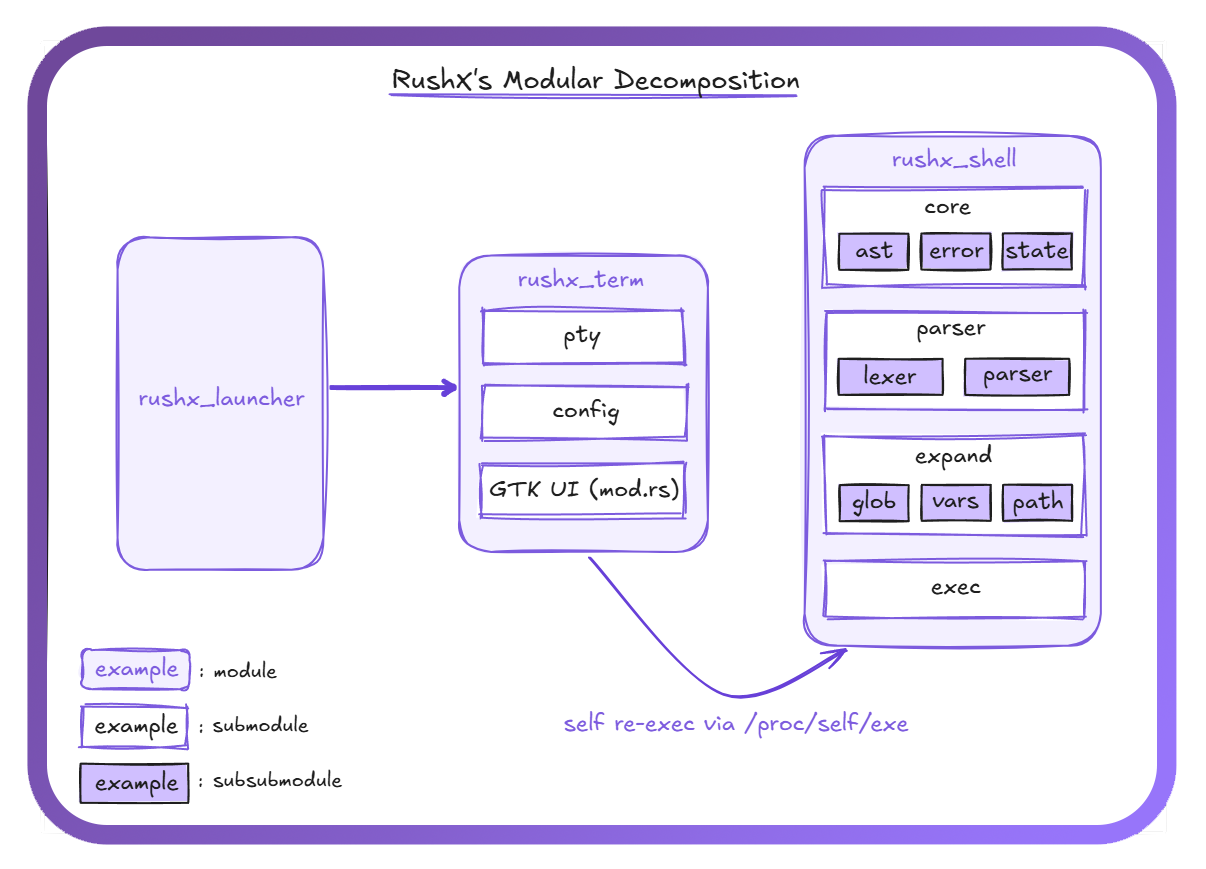
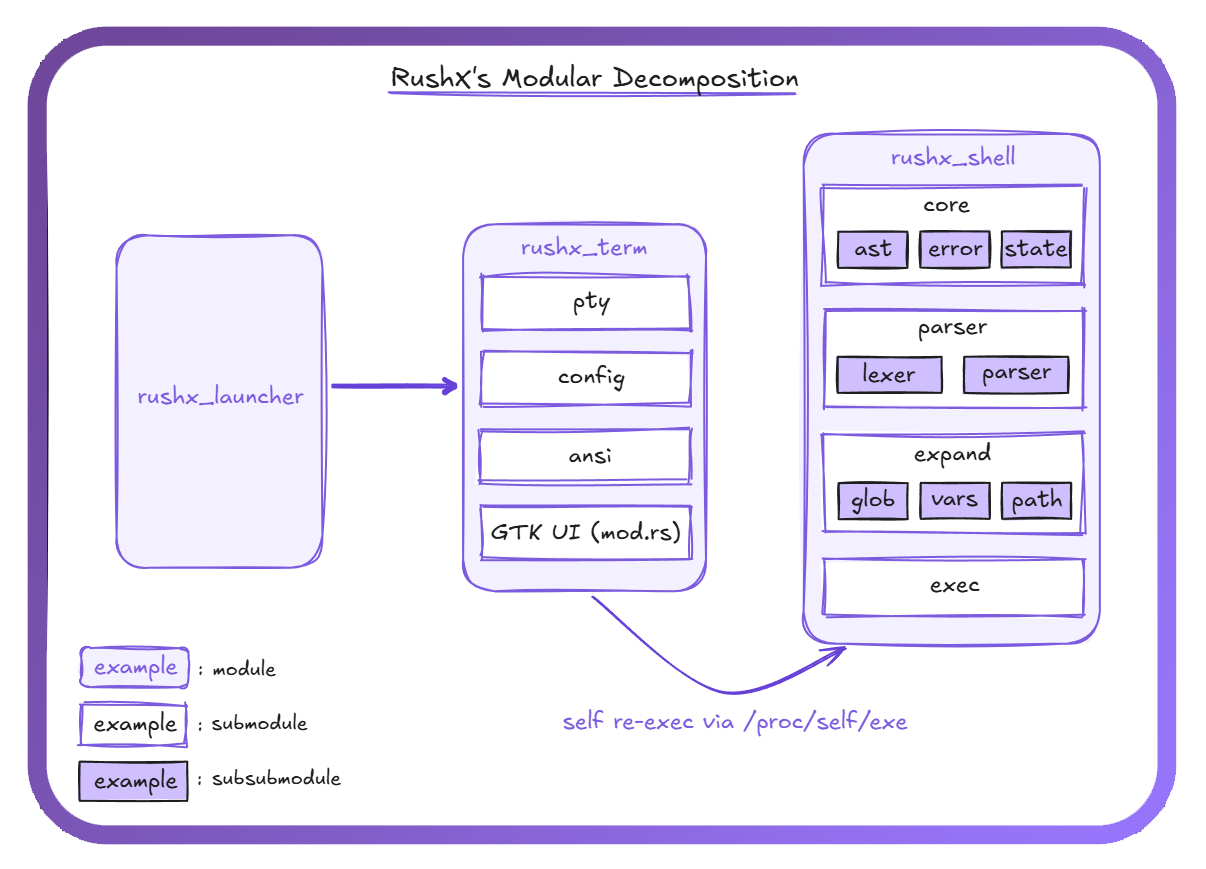
- fix(doc/assets): Updated RushX Modules + Associated sections

diff --git a/README.md b/README.md
@@ -154,7 +154,6 @@ _**Figure 1**: RushX Terminal & Shell Command Execution Lifecycle - Architecture
 
 </div>
 
-
 <br/>
 
 Well, the considered full command execution lifecycle of RushX could be mainly sectioned into five phases:
@@ -328,47 +327,23 @@ The five subsections below walk through each emulator-side component in detail.
 
 #### 3.3.1 Reader Thread
 
-A dedicated background thread sits in a blocking read loop on the PTY master fd, reading into a 4096-byte stack buffer. Each successful read is copied into a byte vector and sent through a standard mpsc channel to the GTK main thread.
-
-The thread terminates when the read returns EOF (shell closed stdout), EIO (slave side closed), or the channel receiver has been dropped (GTK shut down). In all cases the thread exits silently, disconnecting the channel and signaling the poll timer to close the window.
+A dedicated background thread blocks on the PTY master fd, reading into a 4096-byte buffer. Each chunk is sent through an mpsc channel to the GTK main thread. The thread exits silently on EOF, EIO, or a dropped channel receiver.
 
 #### 3.3.2 Poll Timer
 
-A GLib timeout fires every **16 ms** (roughly 60 fps) on the GTK main loop. Each tick drains all pending messages from the reader thread's channel without blocking.
-
-For each byte chunk received, the timer feeds it through the output processing state machine and appends the results to the shared text buffer. If anything arrived, it resets the cursor to visible (interrupting any ongoing blink) and schedules a Cairo repaint.
-
-When the channel disconnects (shell exited, reader thread gone), the timer closes the application window, which causes GTK to quit.
+A GLib timeout fires every **16 ms** (~60 fps) on the GTK main loop, draining all pending messages from the reader thread's channel. Each byte chunk is fed through the output processing pipeline and the results are appended to the styled text buffer. If anything arrived, the cursor resets to visible and a Cairo repaint is scheduled. When the channel disconnects (shell exited), the timer closes the window.
 
 #### 3.3.3 PTY Output Processing
 
-The **process_pty_output()** function sits between raw PTY data and the styled text buffer. It feeds each incoming byte chunk to the **AnsiParser** (described in [Section 3.5](#35-ansi-escape-sequence-parser)), which returns a stream of discrete **Action** values: styled text spans, backspace, carriage return, erase-display, or bell.
-
-Each action is applied to the buffer by **apply_action()**: text spans are appended with their current color and attribute state, backspace removes the last character, carriage return truncates to the start of the current line, and erase-display clears the buffer entirely. If any bell action is encountered, the function signals the poll timer to play the system beep via GDK.
-
-The parser is stateful across calls. An escape sequence that arrives split across two read chunks is reassembled correctly because the parser retains its position in the state machine between invocations.
+**process_pty_output()** feeds each incoming byte chunk to the **AnsiParser** (see [Section 3.5](#35-ansi-escape-sequence-parser)), which returns a stream of **Action** values: styled text spans, backspace, carriage return, erase-display, or bell. Each action is applied to the buffer by **apply_action()**. If a bell action is encountered, the poll timer plays the system beep via GDK. The parser is stateful across calls, so escape sequences split across read chunks are reassembled correctly.
 
 #### 3.3.4 Rendering
 
-A Cairo draw callback is installed on the GTK DrawingArea. Before painting, **build_render_lines()** transforms the flat span buffer into a two-dimensional structure: a list of lines, where each line is a list of (text, style) segments. This function handles newline splitting and preserves per-segment color and attribute information.
-
-The draw pass then proceeds in three stages:
-
-1. **Background fill** with the default dark blue-gray (#1e1e2e).
-2. **Styled text**, rendered segment by segment. Each segment carries its own foreground color, background color, and attributes (reverse video, etc.). If a segment has a non-default background, a colored rectangle is painted behind it before the text. Reverse video swaps the foreground and background. Only the last N lines that fit the window height are drawn (auto-scroll to bottom).
-3. **Block cursor** at the end of the last visible line, one character wide.
-
-Color values come from two sources: the default terminal foreground and background live in [config.rs](./src/rushx_term/config.rs), while the 16-color ANSI palette (Catppuccin Mocha theme), 256-color indexed values, and 24-bit RGB are resolved by the Color type in [ansi.rs](./src/rushx_term/ansi.rs).
-
-A separate **blink timer** toggles cursor visibility every 500 ms. The poll timer resets it to visible whenever new output arrives, so the cursor stays solid while the shell is actively printing.
+A Cairo draw callback paints the screen in three stages: background fill (#1e1e2e), styled text rendered segment by segment (each segment carries its own foreground color, background color, and attributes like reverse video), and a block cursor at the end of the last line. Before painting, **build_render_lines()** splits the flat span buffer into lines of (text, style) segments. Only the last N lines that fit the window height are drawn (auto-scroll). A **blink timer** toggles cursor visibility every 500 ms, reset to solid whenever new output arrives.
 
 #### 3.3.5 Keyboard Input
 
-A GTK key event controller is attached to the DrawingArea. On every key press, it translates the key into a byte sequence and writes it to the PTY master fd.
-
-The mapping follows standard terminal conventions: Enter sends a carriage return, Backspace sends DEL (0x7F), arrow keys send ANSI escape sequences (ESC [ A/B/C/D), Ctrl+letter sends the corresponding control character (0x01 through 0x1A), and printable characters are encoded as UTF-8.
-
-All writes go to the same master fd that the reader thread reads from on the other side. The kernel PTY layer echoes the bytes back through the slave if the line discipline has echo enabled, so typed characters appear on screen through the normal output path, not by direct insertion into the text buffer.
+A GTK key event controller translates each key press into a byte sequence and writes it to the PTY master fd. The mapping follows standard terminal conventions: Enter sends CR, Backspace sends DEL (0x7F), arrow keys send ANSI escapes (ESC [ A/B/C/D), Ctrl+letter sends control characters (0x01--0x1A), and printable characters are encoded as UTF-8. Typed characters appear on screen through the normal PTY echo path, not by direct buffer insertion.
 
 ### 3.4 Configuration
 
@@ -402,72 +377,35 @@ _**Figure 6**: Shell REPL dispatch flowchart. Diamonds: branch conditions. Round
 
 </div>
 
-Figure 6 traces the shell's main loop. The cycle begins at the top with the prompt ("$ "), flows down through line reading, tokenization, and a branch: is the command a builtin or an external program? Each path leads to execution, then loops back to the prompt. The red exit paths show the two ways the loop terminates: the user types "exit", or stdin hits EOF.
-
-The REPL lives in **run_rushx_shell()** in [mod.rs](./src/rushx_shell/mod.rs). Each iteration prints the prompt, flushes stdout, reads a line from stdin, and passes it through the tokenizer and redirection parser. If the first token matches a builtin name, the shell handles it inline. Otherwise, control passes to the external execution engine. The loop repeats until the "exit" builtin is invoked or the read fails (EOF / broken pipe).
-
-The shell maintains a single piece of persistent state across iterations: the previous working directory (**OLDPWD**), used by "cd -" to jump back.
+Figure 6 traces the shell's main loop. **run_rushx_shell()** in [mod.rs](./src/rushx_shell/mod.rs) prints the prompt, reads a line, passes it through the tokenizer and redirection parser, and dispatches to either a builtin handler or the external execution engine. The loop repeats until "exit" is invoked or stdin hits EOF.
 
 ### 4.2 Parsing
 
 #### 4.2.1 Argument Tokenization
 
-The tokenizer in [parse.rs](./src/rushx_shell/parser/parse.rs) splits a raw input line into an argument vector, respecting POSIX-style quoting rules.
-
-It walks the input character by character, tracking whether it is currently inside single quotes, double quotes, or unquoted context. **Single quotes** preserve everything literally with no escape processing. **Double quotes** allow backslash escapes for a small set of characters (backslash itself, double quote, dollar sign, backtick, and newline). **Unquoted backslash** escapes the immediately following character. Whitespace outside quotes delimits arguments.
-
-The result is a flat vector of strings, one per argument. No variable expansion, glob expansion, or tilde expansion happens at this stage; those modules are scaffolded but not yet implemented.
+The tokenizer in [parse.rs](./src/rushx_shell/parser/parse.rs) walks the input character by character, tracking single-quote, double-quote, and unquoted contexts. Single quotes preserve everything literally; double quotes allow backslash escapes for a small set of characters; unquoted backslash escapes the next character. Whitespace outside quotes delimits arguments. The result is a flat vector of strings with no variable or glob expansion applied.
 
 #### 4.2.2 Redirection Parsing
 
-After tokenization, the argument vector is scanned for redirection operators. The parser recognizes six forms:
-
-- **>** and **1>** : redirect stdout to a file (truncate)
-- **>>** and **1>>** : redirect stdout to a file (append)
-- **2>** : redirect stderr to a file (truncate)
-- **2>>** : redirect stderr to a file (append)
-
-Each operator consumes the next token as the target filename. The parser separates redirection instructions from command arguments and returns a structured result containing the clean argument list, an optional stdout redirection, and an optional stderr redirection.
-
-Input redirection (< ) and pipe operators ( | ) are not yet supported.
+After tokenization, the argument vector is scanned for redirection operators: **>** / **1>** (stdout truncate), **>>** / **1>>** (stdout append), **2>** (stderr truncate), and **2>>** (stderr append). Each operator consumes the next token as the target filename. The parser returns a clean argument list plus optional stdout and stderr redirections. Input redirection ( < ) and pipes ( | ) are not yet supported.
 
 ### 4.3 Builtin Commands
 
-The shell recognizes five builtin commands, dispatched inline in the REPL loop without forking a child process:
-
-- **exit** : terminates the shell loop immediately.
-- **echo** : prints its arguments joined by spaces, followed by a newline. With no arguments, prints a blank line.
-- **type** : reports whether a command is a builtin or an external program. For externals, prints the resolved path. If the command is not found, says so.
-- **pwd** : prints the current working directory.
-- **cd** : changes the working directory. Supports "~" (home), "~/subdir" (home-relative), "-" (previous directory via OLDPWD), and absolute or relative paths. Prints an error if the target does not exist or is not a directory.
-
-All builtins write to the redirected output if a redirection is active, rather than always writing to the real stdout/stderr. This is handled by passing a writer object (either a file or the standard stream) into each builtin.
+Five builtins are dispatched inline without forking: **exit** (terminate), **echo** (print arguments, supports -e/-n flags), **type** (identify builtin vs external + resolved path), **pwd** (print working directory), and **cd** (change directory; supports ~, ~/subdir, -, and relative/absolute paths). All builtins write to the redirected output when a redirection is active.
 
 ### 4.4 External Command Execution
 
 #### 4.4.1 PATH Resolution
 
-When a command is not a builtin, the shell searches the PATH environment variable for a matching executable. It splits PATH on the platform separator, joins the command name to each directory, and checks whether the resulting path points to a regular file with at least one execute permission bit set (owner, group, or other).
-
-The first match wins. If no match is found, the shell prints "command not found" and returns to the prompt without forking.
+The shell splits PATH on the platform separator, joins the command name to each directory, and returns the first match that is a regular file with at least one execute permission bit set. If nothing matches, it prints "command not found" without forking.
 
 #### 4.4.2 Fork/Exec Lifecycle
 
-Once a valid executable path is resolved, the shell forks a child process. The child applies any active redirections (opening the target file and using dup2 to replace the standard fd), then calls **execvp** to overlay itself with the target program. The parent blocks on **waitpid** until the child terminates, collects the exit status, and returns to the prompt.
-
-If the child exits with a non-zero status and stderr is not redirected, the shell prints the exit code. If fork itself fails, an error is printed and the loop continues.
-
-All string arguments are converted to null-terminated C strings before the fork, since allocating after fork is unsafe in a multithreaded process (same principle as the terminal emulator's spawn_shell ceremony in [Section 2.2](#22-single-binary-self-re-exec-model)).
+The shell forks a child process. The child applies any active redirections (open + dup2), then calls **execvp** to overlay itself with the target program. The parent blocks on **waitpid** until the child terminates and collects the exit status. All string arguments are converted to null-terminated C strings before the fork, since heap allocation after fork is unsafe in a multithreaded process.
 
 ### 4.5 I/O Redirection Mechanism
 
-Redirection is handled at two levels depending on whether the command is a builtin or an external.
-
-For **builtins**, the REPL loop opens the target file (in truncate or append mode as specified) and wraps it in a generic writer. The builtin writes to that writer instead of stdout or stderr. This happens entirely in the parent process with no forking.
-
-For **external commands**, redirection is applied in the child process after fork but before exec. The child opens the target file with the appropriate flags (O_WRONLY | O_CREAT, plus O_TRUNC or O_APPEND), calls dup2 to replace fd 1 (stdout) or fd 2 (stderr) with the opened file descriptor, then closes the original fd. When exec replaces the child's memory, the new program inherits the redirected file descriptors and writes to the file without knowing it.
-
-Both paths support independent stdout and stderr redirection in the same command.
+For **builtins**, the REPL opens the target file and wraps it in a generic writer that the builtin writes to instead of stdout/stderr. For **external commands**, redirection is applied in the child after fork but before exec: the child opens the target file with the appropriate flags, calls dup2 to replace the standard fd, and closes the original. Both paths support independent stdout and stderr redirection in the same command.
 
 ### 4.6 Tab Completion
 
@@ -499,39 +437,39 @@ The shell's quoting rules (single quotes literal, double quotes with limited esc
 
 ### 6.1 Implementation Status Matrix
 
-| Component                                             | Status      | Notes                                                           |
-| ----------------------------------------------------- | ----------- | --------------------------------------------------------------- |
-| PTY allocation (openpty)                              | Done        | Via nix crate                                                   |
-| Session establishment (fork/setsid/ioctl/dup2/execvp) | Done        | Full POSIX ceremony                                             |
-| Self-re-exec launcher                                 | Done        | /proc/self/exe + --rushx-shell                                  |
-| GTK4 window + DrawingArea                             | Done        | Cairo toy text API rendering                                    |
-| Reader thread + mpsc channel                          | Done        | 4096-byte buffer, blocking read                                 |
-| Poll timer (16 ms)                                    | Done        | Drains channel, triggers redraw                                 |
+| Component                                             | Status      | Notes                                                          |
+| ----------------------------------------------------- | ----------- | -------------------------------------------------------------- |
+| PTY allocation (openpty)                              | Done        | Via nix crate                                                  |
+| Session establishment (fork/setsid/ioctl/dup2/execvp) | Done        | Full POSIX ceremony                                            |
+| Self-re-exec launcher                                 | Done        | /proc/self/exe + --rushx-shell                                 |
+| GTK4 window + DrawingArea                             | Done        | Cairo toy text API rendering                                   |
+| Reader thread + mpsc channel                          | Done        | 4096-byte buffer, blocking read                                |
+| Poll timer (16 ms)                                    | Done        | Drains channel, triggers redraw                                |
 | PTY output state machine                              | Done        | Full ANSI parser with SGR, ED, BEL (see Section 3.5)           |
-| ANSI color rendering                                  | Done        | 16-color palette + 256-color + 24-bit RGB, per-segment styling  |
-| Bell support (BEL 0x07)                               | Done        | Detected by parser, played via GDK system beep                  |
-| Cursor rendering + blink                              | Done        | Block cursor, 500 ms blink                                      |
-| Keyboard input + ANSI escapes                         | Done        | Ctrl, arrows, Delete, Home/End, UTF-8                           |
-| REPL loop                                             | Done        | Raw mode input, user@hostname:cwd prompt, tab completion        |
-| Argument tokenizer                                    | Done        | POSIX-style single/double quote handling                        |
-| Redirection parser                                    | Done        | >, >>, 1>, 1>>, 2>, 2>>                                         |
-| Builtin commands                                      | Done        | exit, echo (-e/-n), type, pwd, cd                               |
-| Tab completion                                        | Done        | Command names (builtins + PATH) and file/directory paths        |
+| ANSI color rendering                                  | Done        | 16-color palette + 256-color + 24-bit RGB, per-segment styling |
+| Bell support (BEL 0x07)                               | Done        | Detected by parser, played via GDK system beep                 |
+| Cursor rendering + blink                              | Done        | Block cursor, 500 ms blink                                     |
+| Keyboard input + ANSI escapes                         | Done        | Ctrl, arrows, Delete, Home/End, UTF-8                          |
+| REPL loop                                             | Done        | Raw mode input, user@hostname:cwd prompt, tab completion       |
+| Argument tokenizer                                    | Done        | POSIX-style single/double quote handling                       |
+| Redirection parser                                    | Done        | >, >>, 1>, 1>>, 2>, 2>>                                        |
+| Builtin commands                                      | Done        | exit, echo (-e/-n), type, pwd, cd                              |
+| Tab completion                                        | Done        | Command names (builtins + PATH) and file/directory paths       |
 | Raw terminal mode                                     | Done        | Disables ICANON/ECHO/ISIG/ICRNL, restores before exec          |
-| External command execution                            | Done        | fork/execvp/waitpid                                             |
-| PATH resolution                                       | Done        | Search + execute-bit check                                      |
-| Lexer (token stream)                                  | Stub        | lexer.rs exists but is empty                                    |
-| AST                                                   | Stub        | ast.rs exists but is empty                                      |
-| Variable/tilde expansion                              | Stub        | expand/vars.rs empty                                            |
-| Glob expansion                                        | Stub        | expand/glob.rs empty                                            |
-| Pipeline ( \| )                                       | Not started |                                                                 |
-| Input redirection ( < )                               | Not started |                                                                 |
-| Job control (bg/fg/jobs)                              | Not started |                                                                 |
-| Signal handling (SIGINT/SIGTSTP)                      | Not started | Relies on kernel defaults                                       |
-| Scrollback buffer                                     | Not started | Only visible lines are kept                                     |
-| Cursor movement (CUP, CUU, etc.)                     | Not started | CSI cursor sequences are discarded                              |
-| Termios configuration                                 | Not started | PTY uses kernel defaults                                        |
-| Runtime config file                                   | Not started | All values are compile-time consts                              |
+| External command execution                            | Done        | fork/execvp/waitpid                                            |
+| PATH resolution                                       | Done        | Search + execute-bit check                                     |
+| Lexer (token stream)                                  | Stub        | lexer.rs exists but is empty                                   |
+| AST                                                   | Stub        | ast.rs exists but is empty                                     |
+| Variable/tilde expansion                              | Stub        | expand/vars.rs empty                                           |
+| Glob expansion                                        | Stub        | expand/glob.rs empty                                           |
+| Pipeline ( \| )                                       | Not started |                                                                |
+| Input redirection ( < )                               | Not started |                                                                |
+| Job control (bg/fg/jobs)                              | Not started |                                                                |
+| Signal handling (SIGINT/SIGTSTP)                      | Not started | Relies on kernel defaults                                      |
+| Scrollback buffer                                     | Not started | Only visible lines are kept                                    |
+| Cursor movement (CUP, CUU, etc.)                      | Not started | CSI cursor sequences are discarded                             |
+| Termios configuration                                 | Not started | PTY uses kernel defaults                                       |
+| Runtime config file                                   | Not started | All values are compile-time consts                             |
 
 ### 6.2 Known Limitations
 
